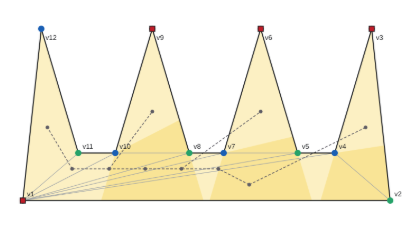
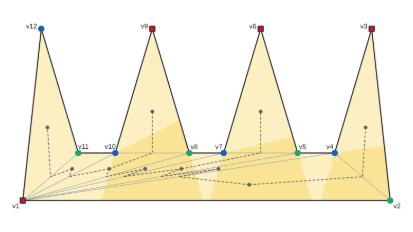
fix(artGallery): dual arcs inside the room, outward labels, larger random rooms
Claude-Session: https://claude.ai/code/session_01GDn6v79cMSt4qkDVCWkMfK

diff --git a/src/players/artGalleryPlayer.ts b/src/players/artGalleryPlayer.ts
@@ -7,8 +7,8 @@ import { gallerySteps } from '../geometry/algorithms/artGallery/gallerySteps'
 import { GALLERY_PRESETS } from '../geometry/algorithms/artGallery/presets'
 import { GALLERY_PSEUDOCODE } from '../geometry/algorithms/artGallery/pseudocode'
 import { coverage } from '../geometry/algorithms/artGallery/visibility'
-import { isSimple } from '../geometry/algorithms/triangulation/polygon'
-import { randomStarPolygon } from '../geometry/algorithms/triangulation/verify'
+import { isSimple, signedArea } from '../geometry/algorithms/triangulation/polygon'
+import { pointInPolygon, randomStarPolygon } from '../geometry/algorithms/triangulation/verify'
 import type { ArtGalleryInput, Pt } from '../geometry/types'
 import { cssColor } from './cssColor'
 import type { Panel, PlayerModule } from './types'
@@ -20,6 +20,16 @@ const INVALID_MESSAGE = 'The polygon must be simple (no crossing edges)'
 const MIN_UNCOVERED_AREA = 0.01
 const CAMERA_SIZE = 10
 const LABEL_SIZE = 13
+/** Least distance from a corner to the centre of its label. */
+const LABEL_OFFSET = 13
+/** Least gap between a label's glyphs and its corner: clears the corner's disc (r 6) and camera square. */
+const LABEL_CLEARANCE = 8
+/** Least distance from a label's centre to the corner's two walls. */
+const LABEL_WALL_GAP = 4
+/** Least distance from a label's text box to the canvas edge. */
+const LABEL_MARGIN = 2
+/** Half the height of the glyphs: digits and lower case reach about 0.72 em above the baseline. */
+const GLYPH_HALF_HEIGHT = 0.36 * LABEL_SIZE
 const VIEW_ALPHA = 0.25
 const UNCOVERED_ALPHA = 0.35
 /** The uncovered area's outline: keeps thin slivers along a wall visible over the room's 2 px outline. */
@@ -56,10 +66,15 @@ function validate(input: ArtGalleryInput): string | null {
   return null
 }
 
-/** A random star-shaped room of 10–16 vertices inside the canvas, without cameras. */
+/**
+ * A random star-shaped room of 10–16 vertices filling the canvas, without cameras: a star of
+ * radii 60–150 around the origin, stretched 2.2× horizontally and moved to the canvas centre
+ * (x 57–717, y 30–330).
+ */
 function randomInput(): ArtGalleryInput {
   for (let k = 0; k < 20; k++) {
-    const polygon = randomStarPolygon(Math.random, 10 + Math.floor(Math.random() * 7), 387, 180, 40, 150)
+    const star = randomStarPolygon(Math.random, 10 + Math.floor(Math.random() * 7), 0, 0, 60, 150)
+    const polygon = star.map((p) => ({ x: 387 + 2.2 * p.x, y: 180 + p.y }))
     if (validate({ polygon, cameras: [] }) === null) return { polygon, cameras: [] }
   }
   return { polygon: copyPolygon(GALLERY_PRESETS[1].polygon), cameras: [] }
@@ -133,6 +148,66 @@ function colourPanel(s: GalleryState): Panel {
     })
   }
   return { title: 'Colours', empty: 'No vertex coloured yet', rows }
+}
+
+const clamp = (v: number, lo: number, hi: number) => Math.min(hi, Math.max(lo, v))
+
+/** A label's text box: its width, and how far it reaches below and above the glyphs' centre. */
+type LabelBox = { width: number; below: number; above: number }
+
+/**
+ * Where the centre of each corner's label goes (the glyphs' centre, not the text's baseline).
+ * `boxes[i]` is the text box of label i. The label sits at least LABEL_OFFSET out along the outward
+ * bisector of the corner's two walls (the sum of their outward normals; for walls that double
+ * back, the next wall's normal), further out when its glyphs would touch the corner's mark, and
+ * inside the canvas. When the canvas edge pushes it back onto the mark (a corner near the edge),
+ * the direction turns in steps of 15° (up to 90°) to the first spot that is clear of the mark,
+ * outside the room and away from the two walls. Either orientation.
+ */
+function labelAnchors(poly: Pt[], boxes: LabelBox[]): Pt[] {
+  const n = poly.length
+  const sign = signedArea(poly) >= 0 ? 1 : -1
+  // outward normal of the wall a → b of a CCW (y-up) polygon, unit length
+  const normal = (a: Pt, b: Pt) => {
+    const len = Math.hypot(b.x - a.x, b.y - a.y) || 1
+    return { x: (sign * (b.y - a.y)) / len, y: (-sign * (b.x - a.x)) / len }
+  }
+  const wallDistance = (p: Pt, a: Pt, b: Pt) => {
+    const dx = b.x - a.x
+    const dy = b.y - a.y
+    const t = clamp(((p.x - a.x) * dx + (p.y - a.y) * dy) / (dx * dx + dy * dy || 1), 0, 1)
+    return Math.hypot(p.x - a.x - t * dx, p.y - a.y - t * dy)
+  }
+  return poly.map((q, i) => {
+    const prev = poly[(i + n - 1) % n]
+    const next = poly[(i + 1) % n]
+    const n1 = normal(prev, q)
+    const n2 = normal(q, next)
+    const sum = { x: n1.x + n2.x, y: n1.y + n2.y }
+    const len = Math.hypot(sum.x, sum.y)
+    const d = len < 1e-9 ? n2 : { x: sum.x / len, y: sum.y / len }
+    const { width, below, above } = boxes[i]
+    const halfWidth = width / 2
+    const place = (dir: Pt, t: number): Pt => ({
+      x: clamp(q.x + t * dir.x, LABEL_MARGIN + halfWidth, WIDTH - LABEL_MARGIN - halfWidth),
+      y: clamp(q.y + t * dir.y, LABEL_MARGIN + below, HEIGHT - LABEL_MARGIN - above),
+    })
+    // the gap between the glyphs' box and the corner
+    const gap = (a: Pt) =>
+      Math.hypot(Math.max(0, Math.abs(a.x - q.x) - halfWidth), Math.max(0, Math.abs(a.y - q.y) - GLYPH_HALF_HEIGHT))
+    for (const deg of [0, 15, -15, 30, -30, 45, -45, 60, -60, 75, -75, 90, -90]) {
+      const r = (deg * Math.PI) / 180
+      const dir = { x: d.x * Math.cos(r) - d.y * Math.sin(r), y: d.x * Math.sin(r) + d.y * Math.cos(r) }
+      for (let t = LABEL_OFFSET; t <= 3 * LABEL_OFFSET; t += 0.5) {
+        const a = place(dir, t)
+        if (gap(a) < LABEL_CLEARANCE) continue
+        if (!pointInPolygon(a, poly) && wallDistance(a, prev, q) > LABEL_WALL_GAP && wallDistance(a, q, next) > LABEL_WALL_GAP)
+          return a
+        break
+      }
+    }
+    return place(d, LABEL_OFFSET)
+  })
 }
 
 function drawPlainPolygon(scene: Scene, poly: Pt[], color: string) {
@@ -231,15 +306,19 @@ const artGalleryPlayer: PlayerModule<GalleryState, ArtGalleryInput> = {
         new P.Path({ segments: [pt(poly[a]), pt(poly[b])], strokeColor: c.diag, strokeWidth: 1 })
       }
 
-    // the dual tree, from line 2 on: arcs between the triangles' centroids, a node per triangle
+    // the dual tree, from line 2 on: a node per triangle, an arc per shared diagonal, bent at the
+    // diagonal's midpoint so that each half stays inside its own triangle
     if (!sandbox && s.phase !== 'triangulate') {
-      for (const [i, j] of s.dualEdges)
+      for (const [i, j] of s.dualEdges) {
+        const [a, b] = s.triangles[i].filter((v) => s.triangles[j].includes(v))
+        const mid = { x: (poly[a].x + poly[b].x) / 2, y: (poly[a].y + poly[b].y) / 2 }
         new P.Path({
-          segments: [pt(centroid(s.triangles[i])), pt(centroid(s.triangles[j]))],
+          segments: [pt(centroid(s.triangles[i])), pt(mid), pt(centroid(s.triangles[j]))],
           strokeColor: c.dual,
           strokeWidth: DUAL_WIDTH,
           dashArray: [5, 3],
         })
+      }
       s.triangles.forEach((t, i) => {
         const active = i === s.current
         new P.Path.Circle({
@@ -290,14 +369,19 @@ const artGalleryPlayer: PlayerModule<GalleryState, ArtGalleryInput> = {
       new P.Path.Rectangle({ center: pt(poly[v]), size: [CAMERA_SIZE, CAMERA_SIZE], fillColor: fill, strokeColor: c.ink, strokeWidth: 1.5 })
     }
 
-    // labels (the layer is y-flipped: flip back so that they read upright); below a corner near the top
-    poly.forEach((q, i) => {
-      new P.PointText({
-        matrix: new P.Matrix(1, 0, 0, -1, q.x + 8, q.y + 8 + LABEL_SIZE > HEIGHT ? q.y - 8 - LABEL_SIZE : q.y + 8),
-        content: label(i),
-        fontSize: LABEL_SIZE,
-        fillColor: c.ink,
-      })
+    // labels outside their corners, the glyphs centred on the anchor: the baseline goes
+    // GLYPH_HALF_HEIGHT below it (the layer is y-flipped: the text is flipped back to read upright).
+    // The text boxes are measured at the origin, unflipped: y from −ascent to +descent.
+    const texts = poly.map(
+      (_, i) => new P.PointText({ content: label(i), fontSize: LABEL_SIZE, fillColor: c.ink, justification: 'center' }),
+    )
+    const boxes = texts.map(({ bounds: b }) => ({
+      width: b.width,
+      below: b.bottom + GLYPH_HALF_HEIGHT,
+      above: -b.top - GLYPH_HALF_HEIGHT,
+    }))
+    labelAnchors(poly, boxes).forEach((a, i) => {
+      texts[i].matrix = new P.Matrix(1, 0, 0, -1, a.x, a.y - GLYPH_HALF_HEIGHT)
     })
   },
 

diff --git a/src/players/artGalleryPlayer.browser.test.ts b/src/players/artGalleryPlayer.browser.test.ts
@@ -6,7 +6,8 @@ import StepPlayer from '../components/StepPlayer'
 import { createScene, type Scene } from '../engine/scene'
 import { GALLERY_PRESETS } from '../geometry/algorithms/artGallery/presets'
 import { GALLERY_PSEUDOCODE } from '../geometry/algorithms/artGallery/pseudocode'
-import { isSimple } from '../geometry/algorithms/triangulation/polygon'
+import { isSimple, signedArea } from '../geometry/algorithms/triangulation/polygon'
+import { pointInPolygon } from '../geometry/algorithms/triangulation/verify'
 import type { ArtGalleryInput, Pt } from '../geometry/types'
 import themeCss from '../styles/theme.css?raw'
 import artGalleryPlayer from './artGalleryPlayer'
@@ -61,9 +62,84 @@ test('random input is a simple polygon with 10–16 vertices', () => {
       expect(p.x).toBeLessThanOrEqual(760)
       expect(p.y).toBeGreaterThanOrEqual(15)
       expect(p.y).toBeLessThanOrEqual(345)
+      // a star of radii 60–150 around the centre, stretched 2.2× horizontally
+      const r = Math.hypot((p.x - 387) / 2.2, p.y - 180)
+      expect(r).toBeGreaterThanOrEqual(60 - 1e-9)
+      expect(r).toBeLessThanOrEqual(150 + 1e-9)
     }
   }
   expect(sizes.size).toBeGreaterThan(3)
+})
+
+const distToSegment = (p: Pt, a: Pt, b: Pt) => {
+  const dx = b.x - a.x
+  const dy = b.y - a.y
+  const t = Math.max(0, Math.min(1, ((p.x - a.x) * dx + (p.y - a.y) * dy) / (dx * dx + dy * dy)))
+  return Math.hypot(p.x - a.x - t * dx, p.y - a.y - t * dy)
+}
+const onBoundary = (p: Pt, poly: Pt[]) => poly.some((a, i) => distToSegment(p, a, poly[(i + 1) % poly.length]) < 1e-6)
+
+test('dual-tree arcs stay inside the room (centroid → diagonal midpoint → centroid)', () => {
+  const scene = makeScene()
+  for (const preset of GALLERY_PRESETS) {
+    const input = presetInput(preset.name)
+    const poly = input.polygon
+    const steps = artGalleryPlayer.computeSteps(input, 'fisk')
+    const step = steps[steps.length - 1]
+    artGalleryPlayer.render(scene, step, input)
+    const arcs = items(scene).filter(
+      (c): c is paper.Path => c instanceof scene.paper.Path && !c.closed && !!c.dashArray && c.dashArray.length > 0,
+    )
+    expect(arcs, preset.name).toHaveLength(step.state.dualEdges.length)
+    for (const arc of arcs) {
+      expect(arc.segments, preset.name).toHaveLength(3)
+      const pts = arc.segments.map((g) => ({ x: g.point.x, y: g.point.y }))
+      for (let k = 0; k < 2; k++)
+        for (let t = 0; t <= 10; t++) {
+          const p = { x: pts[k].x + ((pts[k + 1].x - pts[k].x) * t) / 10, y: pts[k].y + ((pts[k + 1].y - pts[k].y) * t) / 10 }
+          expect(pointInPolygon(p, poly) || onBoundary(p, poly), `${preset.name} (${p.x}, ${p.y})`).toBe(true)
+        }
+    }
+  }
+})
+
+test('vertex labels sit outside the room, clear of their walls, inside the canvas', () => {
+  const scene = makeScene()
+  const star = presetInput('Star')
+  const rooms = [
+    ...GALLERY_PRESETS.map((p) => ({ name: p.name, input: presetInput(p.name) })),
+    { name: 'Star (clockwise)', input: { polygon: [...star.polygon].reverse(), cameras: [] } },
+  ]
+  expect(signedArea(rooms[rooms.length - 1].input.polygon)).toBeLessThan(0)
+  for (const { name, input } of rooms) {
+    const poly = input.polygon
+    const n = poly.length
+    artGalleryPlayer.render(scene, artGalleryPlayer.computeSteps(input, 'fisk')[0], input)
+    const labels = items(scene).filter((c): c is paper.PointText => c instanceof scene.paper.PointText)
+    expect(labels, name).toHaveLength(n)
+    labels.forEach((text, i) => {
+      expect(text.content).toBe(`v${i + 1}`)
+      expect(text.fontSize).toBe(13)
+      expect(text.fillColor?.toCSS(true)).toBe('#1c1e21')
+      // the glyphs' centre, 0.36 em above the baseline (the text's flipped matrix sits on the baseline)
+      const anchor = { x: text.bounds.center.x, y: text.matrix.ty + 0.36 * 13 }
+      expect(text.matrix.d).toBe(-1)
+      const where = `${name} v${i + 1} (${anchor.x.toFixed(1)}, ${anchor.y.toFixed(1)})`
+      expect(!pointInPolygon(anchor, poly) || onBoundary(anchor, poly), where).toBe(true)
+      expect(distToSegment(anchor, poly[(i + n - 1) % n], poly[i]), where).toBeGreaterThan(4)
+      expect(distToSegment(anchor, poly[i], poly[(i + 1) % n]), where).toBeGreaterThan(4)
+      // the glyphs (0.72 em tall) keep clear of the corner's disc, square or ring
+      const gap = Math.hypot(
+        Math.max(0, Math.abs(anchor.x - poly[i].x) - text.bounds.width / 2),
+        Math.max(0, Math.abs(anchor.y - poly[i].y) - 0.36 * 13),
+      )
+      expect(gap, where).toBeGreaterThanOrEqual(7.9)
+      expect(text.bounds.left, where).toBeGreaterThanOrEqual(0)
+      expect(text.bounds.right, where).toBeLessThanOrEqual(775)
+      expect(text.bounds.top, where).toBeGreaterThanOrEqual(0)
+      expect(text.bounds.bottom, where).toBeLessThanOrEqual(360)
+    })
+  }
 })
 
 test('modes, dimmed lines, pseudocode, hint and colours', () => {

diff --git a/src/engine/artGallery.ts b/src/engine/artGallery.ts
@@ -34,6 +34,8 @@ const checkedPolygon = (input: unknown, fn: string): Pt[] => checkedTriangulatio
  * Either orientation; every index refers to the input.
  */
 export function artGallery(input: PolygonInput): ApiArtGallery {
+  // the validation triangulates once and fisk triangulates again, deliberately: the second run
+  // costs next to nothing, and passing the first one in would change fisk's signature
   const polygon = checkedPolygon(input, 'artGallery')
   let r: ReturnType<typeof fisk>
   try {
